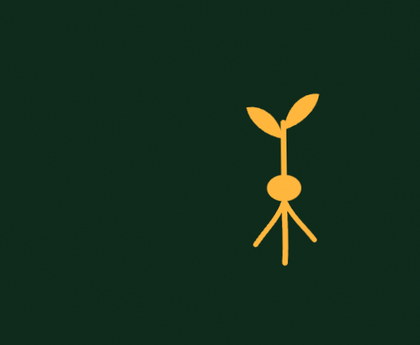
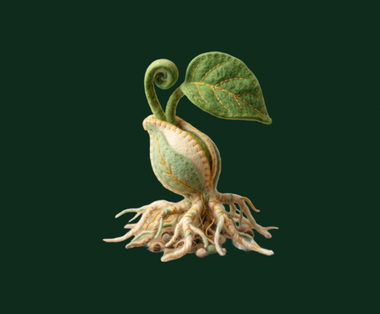
seed: animate the felt art instead of line art; match hero background
Two fixes.

The seed goes back to the felt sprout. The hand-authored SVG was the
wrong call - it animated well but read as dinky line art next to the
rest of the site. Same principle as the dividers now: keep the artwork,
drive it with masks. The sprout is sliced into three overlapping bands
(roots, pod and stem, leaves) and each is revealed by its own mask rect
that SCALES rather than clips - scaleY is a transform, so growth stays
on the compositor instead of forcing clip-path recalcs. Order is
unchanged: roots grow down, the pod overlaps in 300ms later growing up,
leaves unfurl last from their base with overshoot, then it sways.

The hero background was pineDeep while the page is pine, which left a
seam where the hero ends. Worse, the videos keyed pixels are filled pine
- so every soft alpha edge was blending pine over pineDeep and giving
the globe a faint lighter halo. Setting the hero to pine matches page,
hero and video fill to one colour and removes both.

Changed region(s): [[0.2605, 0.1433, 0.7816, 0.8312]]

diff --git a/src/AllAboardEarthPrototype.jsx b/src/AllAboardEarthPrototype.jsx
@@ -632,9 +632,9 @@ export default function App() {
           .div-wave-a, .div-wave-b{ animation:none !important; }
           .divider{ transform:none !important; }
           .seed-grow{ opacity:1 !important; transform:none !important; }
-          .seed-roots path, #seed-stem{ stroke-dashoffset:0 !important; transition:none !important; }
-          #seed-hull, .seed-leaf{ transform:none !important; opacity:1 !important; transition:none !important; }
-          .seed-sway, .seed .seed-leaf{ animation:none !important; }
+          .sm-roots, .sm-pod{ transform:scaleY(1) !important; transition:none !important; }
+          .seed-leaves{ transform:none !important; opacity:1 !important; transition:none !important; }
+          .seed-sway, .seed-leaves{ animation:none !important; }
           .photoprint, .poster, .panel{ animation:none !important; }
           .cta-train{ animation:none !important; transform:translateX(0) !important; left:auto !important; right:8px !important; }
           .train-puff{ animation:none !important; opacity:0 !important; }
@@ -664,7 +664,7 @@ export default function App() {
 
         /* hero + vinyl sun */
         .hero{ position:relative; padding:clamp(84px,11vh,112px) clamp(16px,4vw,48px) 0; text-align:center;
-          background:${T.pineDeep}; overflow:hidden; }
+          background:${T.pine}; overflow:hidden; }
         /* Seat B — starfield behind everything in the hero */
         .starfield{
           position:absolute; inset:0; z-index:0; pointer-events:none; overflow:hidden;
@@ -742,6 +742,74 @@ export default function App() {
         .marquee-inner{ display:inline-block; white-space:nowrap; font-family:'Anton'; font-size:22px; line-height:36px; letter-spacing:.1em; animation:slide 35s linear infinite; }
         .marquee:hover .marquee-inner{ animation-play-state:paused; }
         .marquee-unit{ display:inline-flex; align-items:center; }
+        .seed-sep{ width:26px; height:31px; margin:0 .5em; flex:none; vertical-align:-6px; }
+        .seed-ico{ width:38px; height:38px; }
+        /* Seat 4 — seeds grow rather than fade, staggered across the grid */
+        [data-reveal].freq .seed-ico{ transform:scale(.6); opacity:0; transition:transform .8s var(--ease-settle), opacity .8s var(--ease-settle); }
+        [data-reveal].freq.in .seed-ico{ transform:scale(1); opacity:1; }
+        @keyframes slide{ from{ transform:translateX(0); } to{ transform:translateX(-50%); } }
+
+        /* wave→mountain dividers */
+        .divider{ position:relative; width:100%; margin:0 auto; overflow:hidden; line-height:0;
+          transform:translate3d(0, var(--divider-shift, 0px), 0); will-change:transform; }
+        .divider-svg{ width:100%; height:clamp(84px,11vw,150px); display:block; }
+        .divider.flip .divider-svg{ transform:none; }
+
+        /* the mask sweeps the horizon: wave first, ridge overlapping in at 600ms */
+        .mask-wave, .mask-ridge{
+          stroke-dasharray:100; stroke-dashoffset:100;
+          transition:stroke-dashoffset 1200ms var(--ease-settle);
+        }
+        .mask-ridge{ transition-duration:1100ms; transition-delay:600ms; }
+        .divider.is-drawn .mask-wave,
+        .divider.is-drawn .mask-ridge{ stroke-dashoffset:0; }
+
+        /* living water — only the wave side, desynced so it reads as ocean */
+        .div-wave-a{ animation:wave-bob-a 7s var(--ease-drift) infinite; will-change:transform; }
+        .div-wave-b{ animation:wave-bob-b 9s var(--ease-drift) infinite; will-change:transform; }
+        @keyframes wave-bob-a{ 0%,100%{ transform:translateY(-3px); } 50%{ transform:translateY(3px); } }
+        @keyframes wave-bob-b{ 0%,100%{ transform:translateY(2.5px); } 50%{ transform:translateY(-2.5px); } }
+
+        /* roots mark */
+        .roots{ display:block; width:96px; height:auto; margin:40px auto 0; }
+
+        /* 🌱 germination — the felt art, revealed by scaling mask rects.
+           scaleY is a transform, so growth stays on the compositor. */
+        .seed{ overflow:visible; }
+        .sm-roots, .sm-pod{
+          transform-box:fill-box; transform:scaleY(0);
+          transition:transform 900ms var(--ease-settle);
+        }
+        .sm-roots{ transform-origin:50% 0%; }               /* grows downward */
+        .sm-pod{ transform-origin:50% 100%; transition-duration:600ms; transition-delay:300ms; }
+        .seed.is-grown .sm-roots,
+        .seed.is-grown .sm-pod{ transform:scaleY(1); }
+
+        .seed-leaves{
+          transform-box:fill-box; transform-origin:50% 100%;
+          transform:scale(.4) rotate(-12deg); opacity:0;
+          transition:transform 700ms cubic-bezier(.34,1.56,.64,1) 760ms, opacity 300ms linear 760ms;
+        }
+        .seed.is-grown .seed-leaves{ transform:scale(1) rotate(0deg); opacity:1; }
+
+        /* idle life, once grown */
+        .seed.is-grown .seed-sway{
+          transform-box:fill-box; transform-origin:50% 100%;
+          animation:seed-sway 6s var(--ease-drift) infinite;
+        }
+        .seed.is-grown .seed-leaves{ animation:leaf-drift 5s var(--ease-drift) infinite 1.6s; }
+        @keyframes seed-sway{ 0%,100%{ transform:rotate(-1.5deg); } 50%{ transform:rotate(1.5deg); } }
+        @keyframes leaf-drift{ 0%,100%{ transform:rotate(-2deg); } 50%{ transform:rotate(2deg); } }
+
+        /* bullet glyphs germinate in ~450ms */
+        .seed--glyph .sm-roots{ transition-duration:200ms; }
+        .seed--glyph .sm-pod{ transition-duration:170ms; transition-delay:120ms; }
+        .seed--glyph .seed-leaves{ transition-delay:250ms; transition-duration:220ms; }
+
+        /* hover perk */
+        .seed:hover .seed-leaves{ animation:leaf-perk 400ms var(--ease-settle); }
+        @keyframes leaf-perk{ 50%{ transform:scale(1.04) rotate(4deg); } }
+
         .seed-sep{ width:20px; height:26px; margin:0 .55em; color:${T.pineDeep}; flex:none; }
         .seed-ico{ width:38px; height:38px; }
         /* Seat 4 — seeds grow rather than fade, staggered across the grid */

diff --git a/src/ornaments/Seed.jsx b/src/ornaments/Seed.jsx
@@ -1,20 +1,32 @@
-import React, { useEffect, useRef, useState } from "react";
+import React, { useEffect, useId, useRef, useState } from "react";
+import seedArt from "../assets/marks/seed-mark.webp";
 
 /**
- * 🌱 The seed sprout — hand-authored SVG, not a trace.
+ * 🌱 The seed sprout — the felt art, animated. Same principle as the dividers:
+ * keep the artwork, drive it with masks rather than redrawing it as line work.
  *
- * Why hand-authored: the felt seed art is a photographic render. potrace turns
- * it into a blob of contours with no separable root/stem/leaf, and a stroke
- * draw-on needs real stroked paths with known lengths. Six named paths give
- * exactly the handles the germination needs, at ~1KB instead of 68KB.
+ * The sprout is sliced into three horizontal bands (roots / pod+stem / leaves)
+ * and each is revealed by its own mask rect that SCALES rather than clips —
+ * scaleY is a transform, so the growth stays on the compositor instead of
+ * forcing clip-path recalcs.
  *
- * Growth order (once, at 40% in view): roots draw down, the stem overlaps in
- * 300ms later, leaves unfurl last with a slight overshoot. Then it sways.
+ * Order: roots grow downward, the pod overlaps in 300ms later growing upward,
+ * the leaves unfurl last from their base with a slight overshoot.
  */
 
-const useGrow = (threshold = 0.4) => {
+const W = 520;
+const H = 624;
+
+// bands overlap slightly so no seam shows between them
+const LEAVES = { y: 0, h: 236 };
+const POD = { y: 192, h: 252 };
+const ROOTS = { y: 418, h: H - 418 };
+
+export default function Seed({ className = "", variant = "mark" }) {
+  const uid = useId().replace(/:/g, "");
   const ref = useRef(null);
   const [grown, setGrown] = useState(false);
+
   useEffect(() => {
     const el = ref.current;
     if (!el) return;
@@ -29,62 +41,45 @@ const useGrow = (threshold = 0.4) => {
           io.disconnect();
         }
       },
-      { threshold }
+      { threshold: 0.4 }
     );
     io.observe(el);
     return () => io.disconnect();
-  }, [threshold]);
-  return [ref, grown];
-};
+  }, []);
 
-export default function Seed({ className = "", variant = "mark", hue }) {
-  const [ref, grown] = useGrow(0.4);
-  const stroke = hue || "currentColor";
+  const m = (k) => `seed-${k}-${uid}`;
 
   return (
     <svg
       ref={ref}
-      className={
-        "seed seed--" + variant + (grown ? " is-grown" : "") + " " + className
-      }
-      viewBox="0 0 100 140"
+      className={`seed seed--${variant} ${grown ? "is-grown" : ""} ${className}`}
+      viewBox={`0 0 ${W} ${H}`}
       role="presentation"
       aria-hidden="true"
     >
+      <defs>
+        {/* each mask rect scales from the edge the growth should start at */}
+        <mask id={m("roots")} maskUnits="userSpaceOnUse" x="0" y="0" width={W} height={H}>
+          <rect className="sm-roots" x="0" y={ROOTS.y} width={W} height={ROOTS.h} fill="#fff" />
+        </mask>
+        <mask id={m("pod")} maskUnits="userSpaceOnUse" x="0" y="0" width={W} height={H}>
+          <rect className="sm-pod" x="0" y={POD.y} width={W} height={POD.h} fill="#fff" />
+        </mask>
+        <mask id={m("leaves")} maskUnits="userSpaceOnUse" x="0" y="0" width={W} height={H}>
+          <rect x="0" y={LEAVES.y} width={W} height={LEAVES.h} fill="#fff" />
+        </mask>
+      </defs>
+
       <g className="seed-sway">
-        {/* roots first — they draw downward from under the hull */}
-        <g className="seed-roots" fill="none" strokeLinecap="round">
-          <path id="seed-root-1" d="M50 92 C46 104, 38 110, 30 122" stroke={stroke} strokeWidth="3.2" />
-          <path id="seed-root-2" d="M50 92 C50 106, 51 116, 50 132" stroke={stroke} strokeWidth="3.6" />
-          <path id="seed-root-3" d="M50 92 C55 103, 63 109, 71 120" stroke={stroke} strokeWidth="3.2" />
+        <g mask={`url(#${m("roots")})`}>
+          <image href={seedArt} x="0" y="0" width={W} height={H} />
         </g>
-
-        {/* the hull sits at the origin of everything */}
-        <ellipse id="seed-hull" cx="50" cy="84" rx="11" ry="8.5" fill={stroke} />
-
-        {/* stem climbs out of the hull */}
-        <path
-          id="seed-stem"
-          d="M50 78 C50 66, 50 56, 50 42"
-          fill="none"
-          stroke={stroke}
-          strokeWidth="3.6"
-          strokeLinecap="round"
-        />
-
-        {/* leaves unfurl last, each about its own base */}
-        <path
-          id="seed-leaf-l"
-          className="seed-leaf"
-          d="M50 52 C38 50, 28 42, 26 32 C37 30, 47 38, 50 52 Z"
-          fill={stroke}
-        />
-        <path
-          id="seed-leaf-r"
-          className="seed-leaf"
-          d="M50 46 C62 43, 72 34, 74 24 C63 22, 53 31, 50 46 Z"
-          fill={stroke}
-        />
+        <g mask={`url(#${m("pod")})`}>
+          <image href={seedArt} x="0" y="0" width={W} height={H} />
+        </g>
+        <g className="seed-leaves" mask={`url(#${m("leaves")})`}>
+          <image href={seedArt} x="0" y="0" width={W} height={H} />
+        </g>
       </g>
     </svg>
   );
